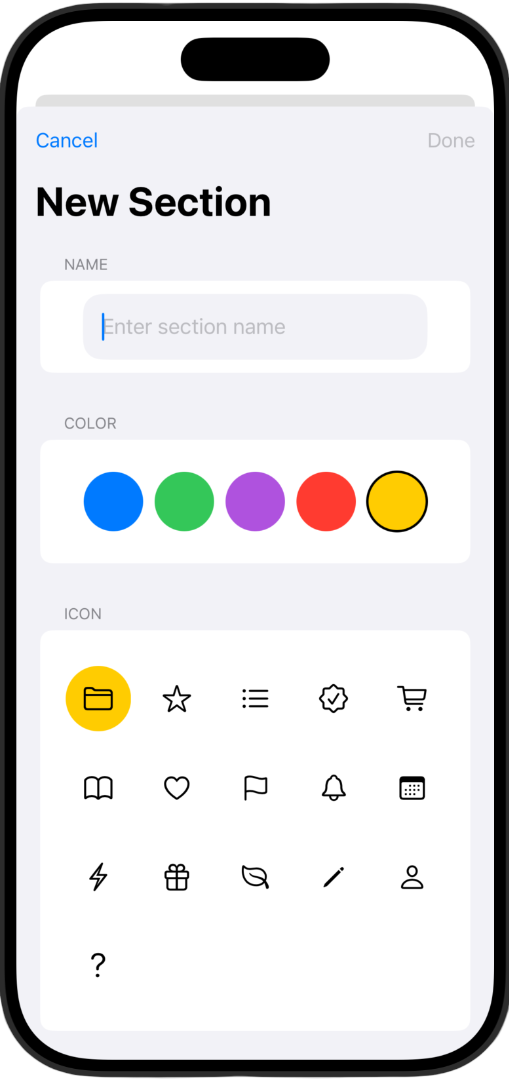
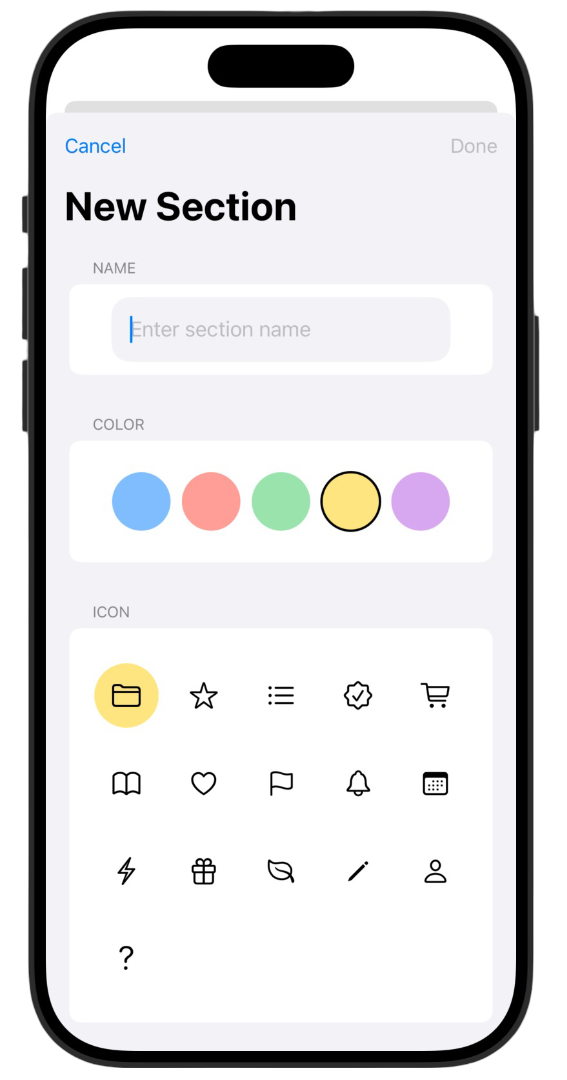
Update New Section colors and screenshot

diff --git a/AnyTask/Views/NewSectionView.swift b/AnyTask/Views/NewSectionView.swift
@@ -13,12 +13,9 @@ struct NewSectionView: View {
 
     let onCreate: (String, String, String) -> Void
 
-    let colors: [String: Color] = [
-        ".blue": .blue,
-        ".red": .red,
-        ".green": .green,
-        ".yellow": .yellow,
-        ".purple": .purple
+    // Use the color names from Extensions.swift
+    let colorNames: [String] = [
+        ".blue", ".red", ".green", ".yellow", ".purple"
     ]
 
     init(initialName: String = "", initialColor: String = ".blue", initialIconName: String = "folder", onCreate: @escaping (String, String, String) -> Void) {
@@ -41,30 +38,23 @@ struct NewSectionView: View {
                         .padding(.horizontal)
                 }
                 Section(header: Text("Color")) {
-                        //Text("Pick a Color")
-                            //.font(.headline)
-                           // .padding(.top)
-                        
-                        LazyVGrid(columns: [GridItem(.adaptive(minimum: 50))], spacing: 20) {
-                            ForEach(colors.keys.sorted(), id: \.self) { colorName in
-                                Circle()
-                                    .fill(colors[colorName] ?? .gray)
-                                    .frame(width: 50, height: 50)
-                                    .overlay(
-                                        Circle()
-                                            .stroke(selectedColor == colorName ? Color.primary : Color.clear, lineWidth: 2)
-                                    )
-                                    .onTapGesture {
-                                        selectedColor = colorName
-                                    }
-                            }
+                    LazyVGrid(columns: [GridItem(.adaptive(minimum: 50))], spacing: 20) {
+                        ForEach(colorNames, id: \.self) { colorName in
+                            Circle()
+                                .fill(Color.fromName(colorName))
+                                .frame(width: 50, height: 50)
+                                .overlay(
+                                    Circle()
+                                        .stroke(selectedColor == colorName ? Color.primary : Color.clear, lineWidth: 2)
+                                )
+                                .onTapGesture {
+                                    selectedColor = colorName
+                                }
                         }
-                        .padding()
+                    }
+                    .padding()
                 }
                 Section(header: Text("Icon")) {
-//                    Text("Pick an Icon")
-//                        .font(.headline)
-//                        .padding(.top)
                     iconPicker
                 }
             }
@@ -75,7 +65,7 @@ struct NewSectionView: View {
                     onCreate(sectionName, selectedColor, selectedIcon)
                     dismiss()
                 }
-                    .disabled(sectionName.isEmpty)
+                .disabled(sectionName.isEmpty)
             )
             .scrollDismissesKeyboard(.immediately)
             .ignoresSafeArea(.keyboard)
@@ -83,10 +73,8 @@ struct NewSectionView: View {
                 isTextFieldFocused = true
             }
         }
-            
-        
     }
-    
+
     private var iconPicker: some View {
         LazyVGrid(columns: Array(repeating: GridItem(.flexible()), count: 5), spacing: 16) {
             ForEach(availableIcons, id: \.self) { icon in
@@ -94,7 +82,7 @@ struct NewSectionView: View {
                     Image(systemName: icon)
                         .font(.title2)
                         .padding()
-                        .background(selectedIcon == icon ? (colors[selectedColor] ?? .gray).opacity(1.0) : Color.clear)
+                        .background(selectedIcon == icon ? Color.fromName(selectedColor) : Color.clear)
                         .clipShape(Circle())
                         .foregroundColor(Color.primary)
                 }
